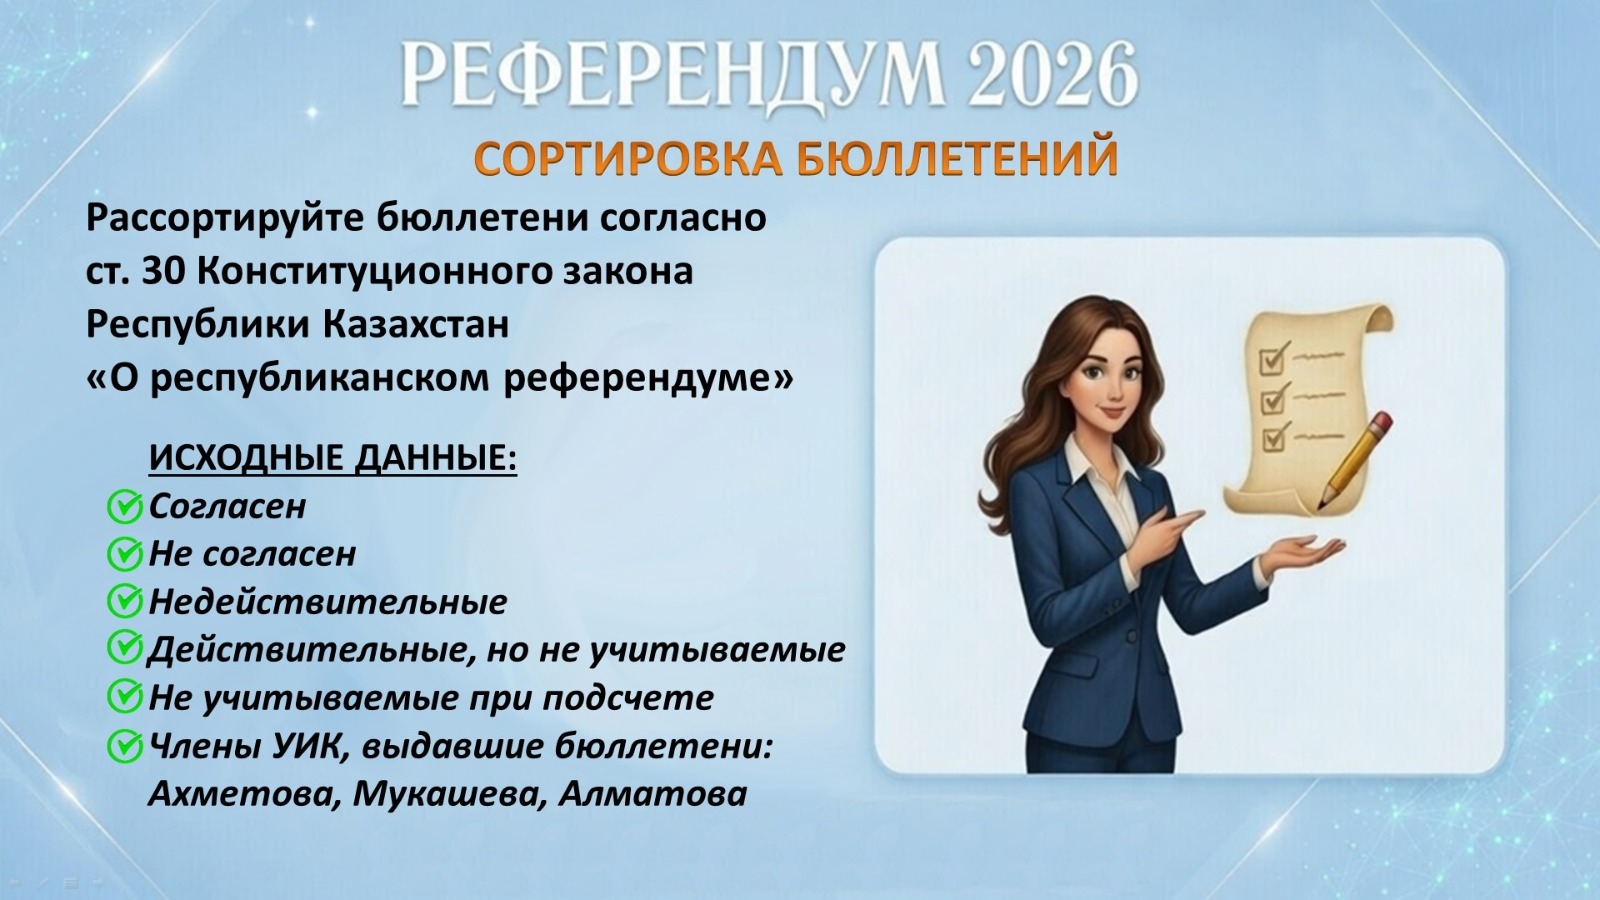
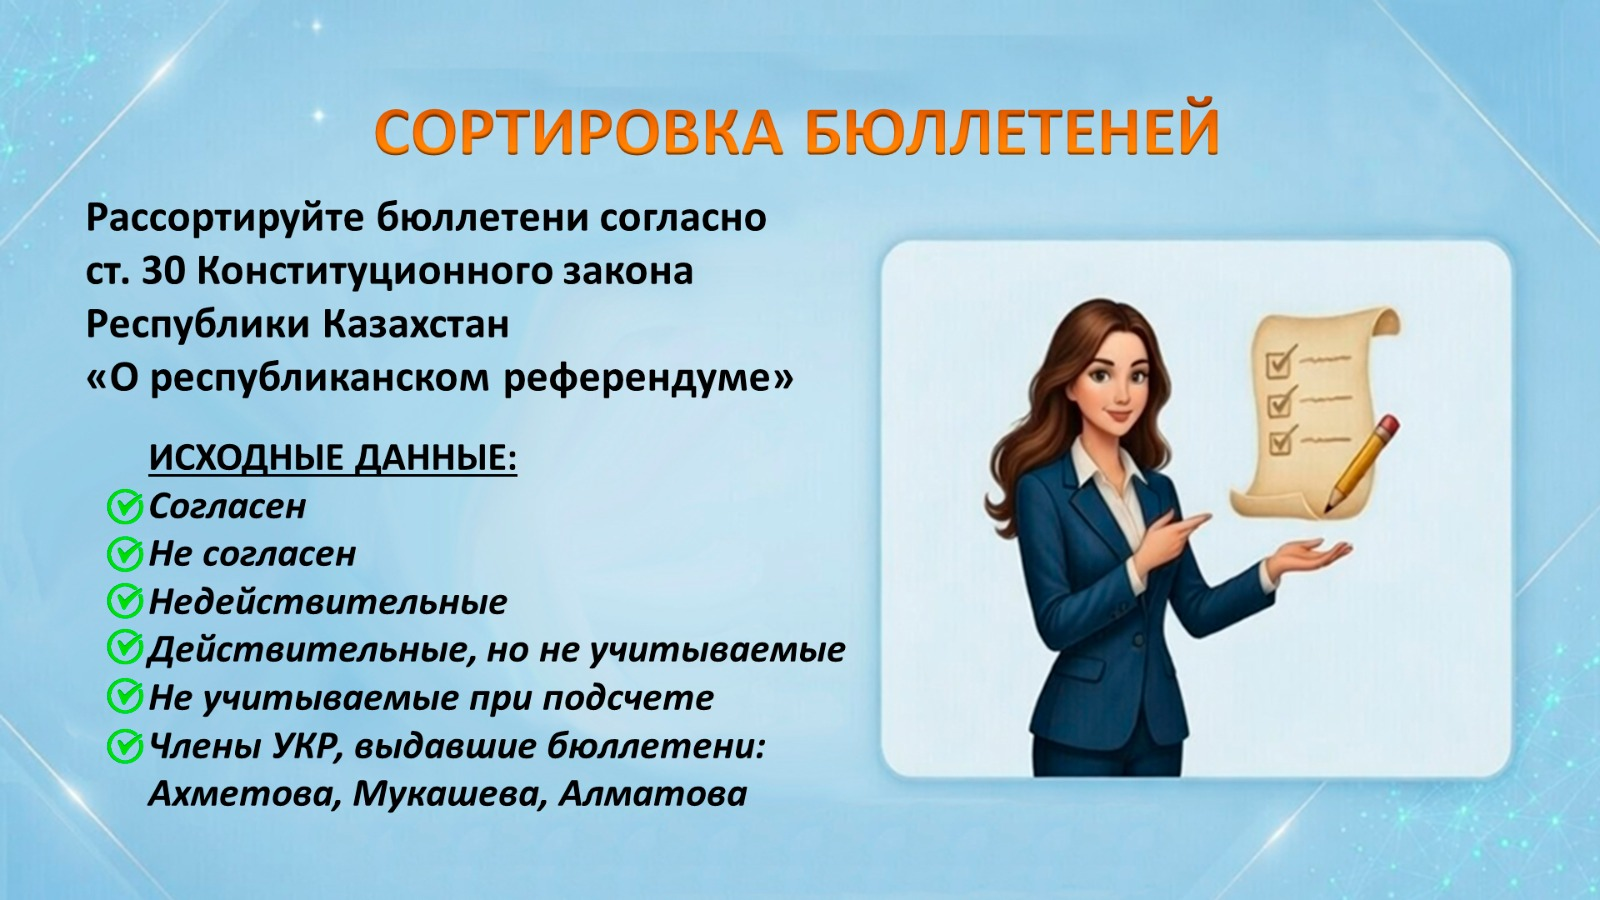
new button

diff --git a/src/App.jsx b/src/App.jsx
@@ -124,7 +124,7 @@ function App() {
               <li>Недействительный</li>
               <li>Действительный, но не учитываемый</li>
               <li>Не учитываемый при подсчете</li>
-              <li>Члены УИК, выдавшие бюллетени: Ахметова, Мукашева, Алматова</li>
+              <li>Члены УКР, выдавшие бюллетени: Ахметова, Мукашева, Алматова</li>
             </ul>
             <button onClick={startTest}>Начать тест</button>
           </div>

diff --git a/src/App.css b/src/App.css
@@ -40,13 +40,13 @@ button {
   background: #646cff;
   color: white;
   border: none;
-  padding: 20px;
-  margin-top: 10px;
+  padding: 28px 24px;
+  margin-top: 12px;
   border-radius: 5px;
   cursor: pointer;
   width: 80%;
   transition: 0.3s;
-  font-size: 25px;
+  font-size: 32px;
 }
 
 button:hover {
